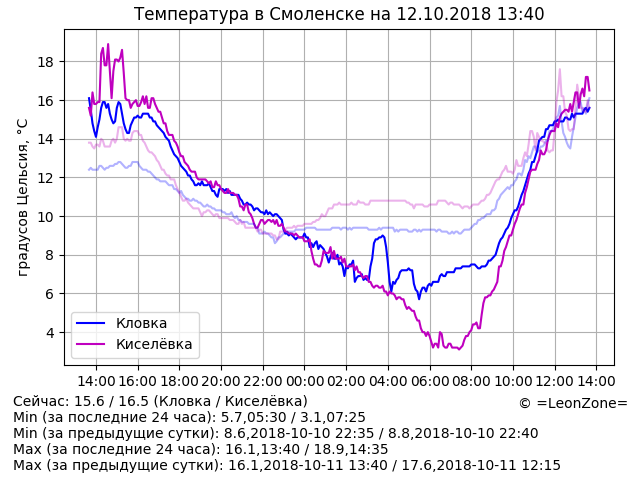
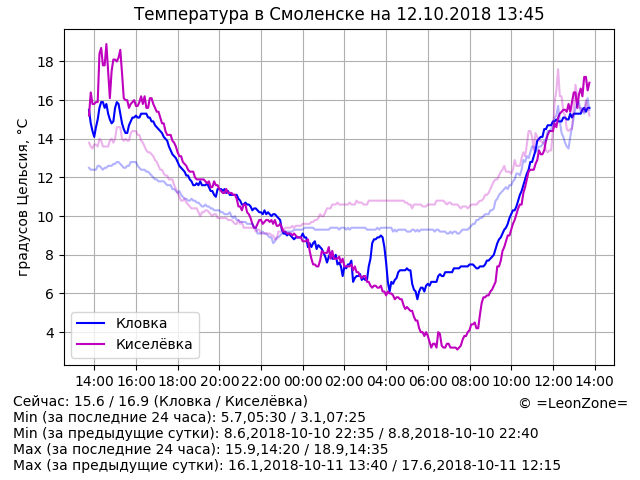
Update data

diff --git a/index.html b/index.html
@@ -14,10 +14,10 @@
 	<p align="center"><script>document.write("<img src=\"graph.png?rnd="+Math.random()+"\" alt=\"Температура в Смоленске\" align=\"middle\" width=\"640\" height=\"480\" />")</script>
 	<p hidden="true">
 <!-- textinfo -->
-Сейчас: 15.6 / 16.5 (Кловка / Киселёвка)
+Сейчас: 15.6 / 16.9 (Кловка / Киселёвка)
 Min (за последние 24 часа): 5.7,05:30 / 3.1,07:25
 Min (за предыдущие сутки): 8.6,2018-10-10 22:35 / 8.8,2018-10-10 22:40
-Max (за последние 24 часа): 16.1,13:40 / 18.9,14:35
+Max (за последние 24 часа): 15.9,14:20 / 18.9,14:35
 Max (за предыдущие сутки): 16.1,2018-10-11 13:40 / 17.6,2018-10-11 12:15
 <!-- /textinfo -->
 	<footer hidden="true">© =LeonZone=</footer>
